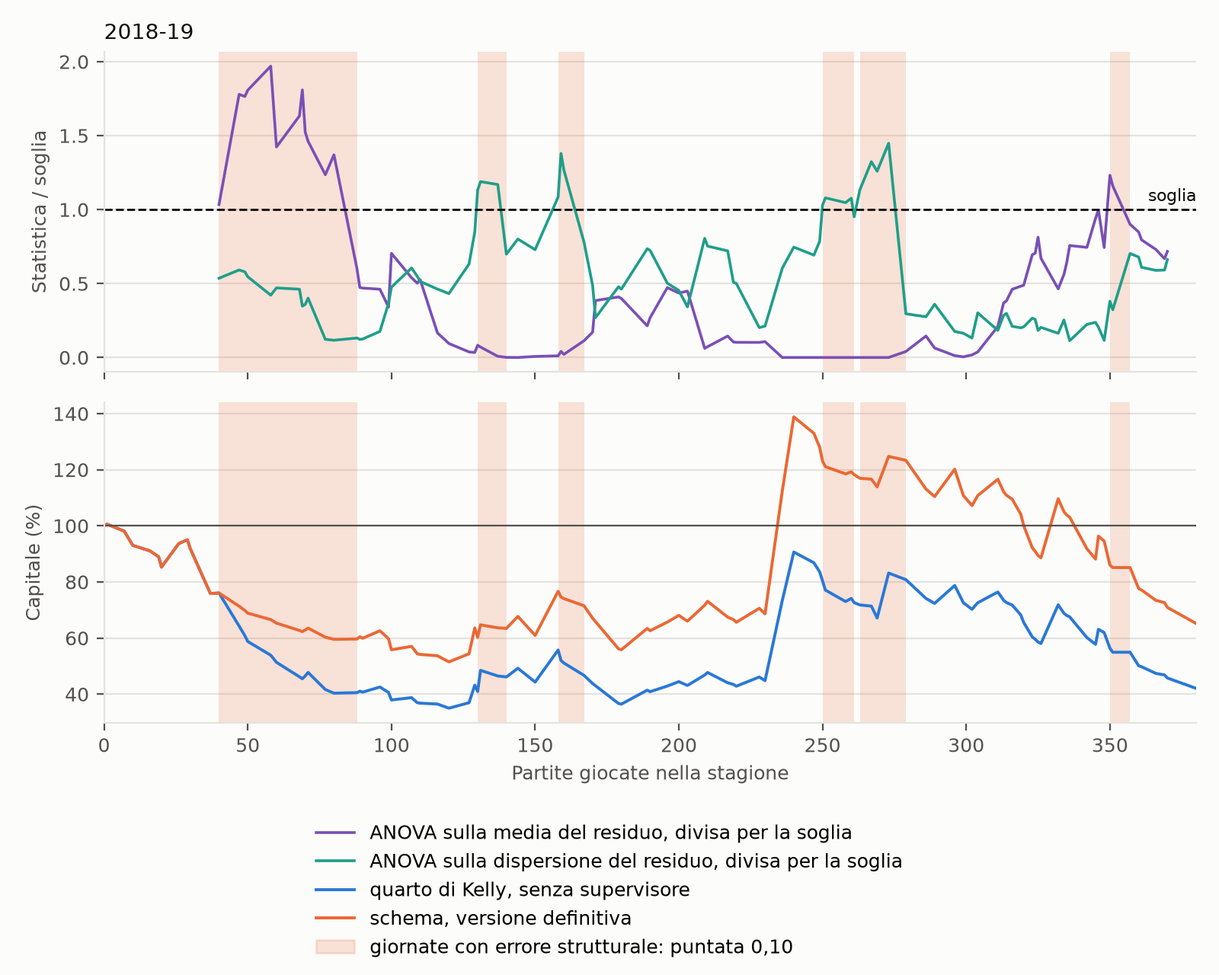
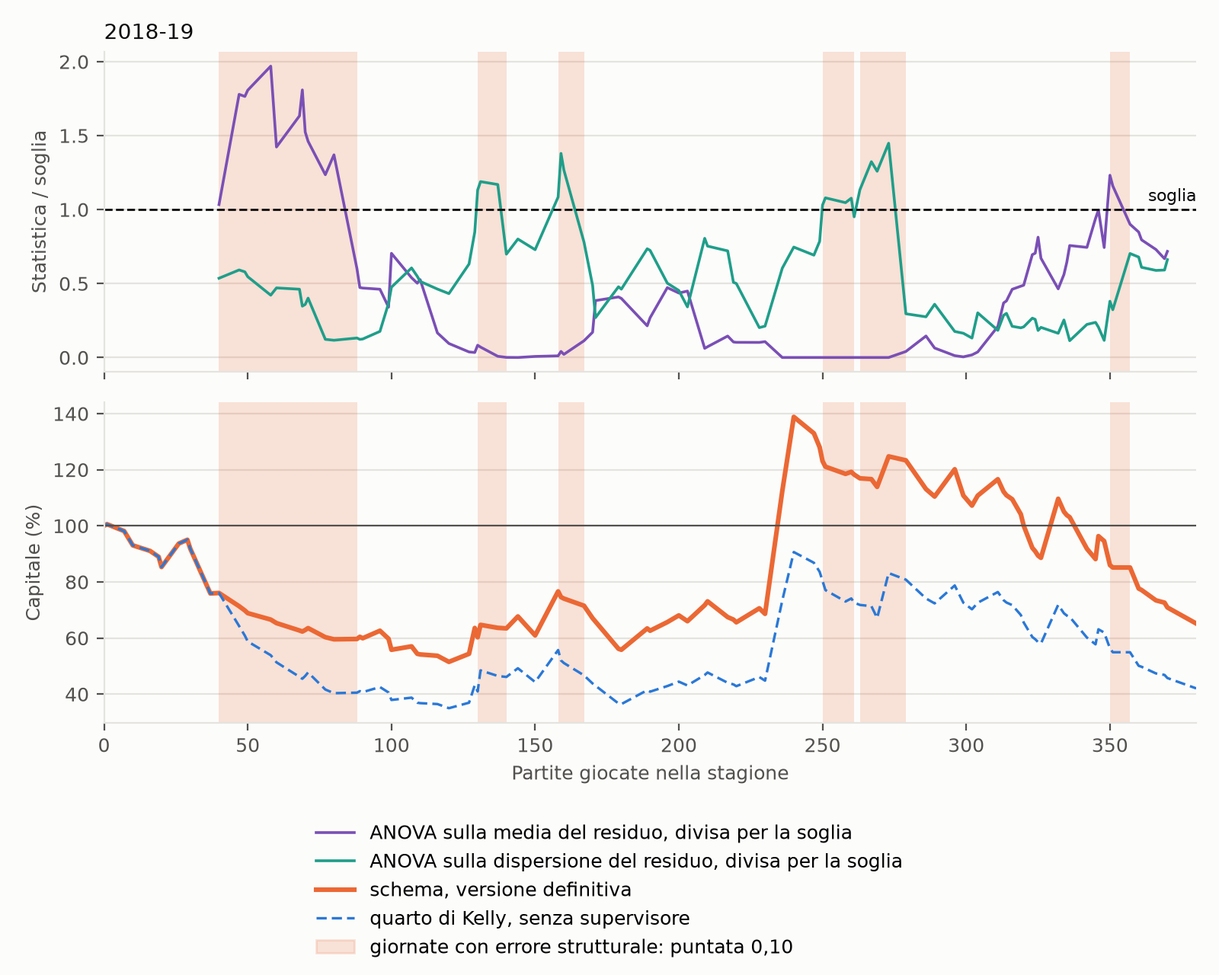
Thesis: clearer sections 5.6 and 5.7, the 2023-24 season traced day by day and why the alarm never fires

diff --git a/scripts/tesi_allarmi_figures.py b/scripts/tesi_allarmi_figures.py
@@ -3,6 +3,8 @@
 - thesis/figures/tesi_allarmi_stagioni.png: le 19 stagioni vere giornata per giornata, con la
   puntata della versione definitiva (quarto di Kelly senza allarme, 0.25·κ dopo un errore nei dati,
   0.10 dopo un errore strutturale, finché dura l'allarme) e il capitale finale dei due agenti;
+- thesis/figures/tesi_allarmi_2023_24.png: lo stesso per la stagione 2023-24 di KellyBench, da
+  results/us_c39_test_season_trace.csv;
 - thesis/figures/tesi_allarmi_2018_19.png: la stagione 2018-19, con le statistiche dell'ANOVA sulla media e sulla dispersione divise per la loro soglia e il capitale della
   versione principale e del quarto di Kelly.
 
@@ -25,6 +27,7 @@ RESULTS = REPO_ROOT / "results"
 SEASONS_PNG = FIG_DIR / "tesi_allarmi_stagioni.png"
 DETAIL_PNG = FIG_DIR / "tesi_allarmi_2018_19.png"
 DETAIL_SEASONS = ("2018-19",)
+TEST_PNG = FIG_DIR / "tesi_allarmi_2023_24.png"
 
 SURFACE = "#fcfcfb"
 INK = "#0b0b0b"
@@ -102,11 +105,13 @@ def plot_seasons() -> None:
     plt.close(fig)
 
 
-def plot_detail() -> None:
-    trace = pd.read_csv(RESULTS / "us_c33_main_alarm_trace.csv")
-    fig, axes = plt.subplots(2, len(DETAIL_SEASONS), figsize=(3 + 5 * len(DETAIL_SEASONS), 6.4),
+def plot_detail(trace_csv: str = "us_c33_main_alarm_trace.csv", seasons: tuple[str, ...] = DETAIL_SEASONS,
+                png: Path = DETAIL_PNG) -> None:
+    trace = pd.read_csv(RESULTS / trace_csv)
+    DETAIL = seasons
+    fig, axes = plt.subplots(2, len(DETAIL), figsize=(3 + 5 * len(DETAIL), 6.4),
                              facecolor=SURFACE, sharex=True, squeeze=False, gridspec_kw={"height_ratios": [1, 1]})
-    for col, season in enumerate(DETAIL_SEASONS):
+    for col, season in enumerate(DETAIL):
         d = trace[(trace["season"] == season) & trace["f_mean"].notna()]
         full = trace[trace["season"] == season]
         x = d["matches_before"]
@@ -127,10 +132,10 @@ def plot_detail() -> None:
                     ax.axvspan(s0, s1, color=STOPPED, alpha=0.18, linewidth=0)
         top.set_title(season, color=INK, fontsize=10, loc="left")
         after = np.append(0, (full["matches_before"] + full["n_matches"]).to_numpy())
-        bottom.plot(after, np.append(100, 100 * full["wealth_quarter"]), color=SERIES_KELLY, linewidth=1.4,
-                    label="quarto di Kelly, senza supervisore")
-        bottom.plot(after, np.append(100, 100 * full["wealth_main"]), color=SERIES_SCHEME, linewidth=1.4,
+        bottom.plot(after, np.append(100, 100 * full["wealth_main"]), color=SERIES_SCHEME, linewidth=2.2,
                     label="schema, versione definitiva")
+        bottom.plot(after, np.append(100, 100 * full["wealth_quarter"]), color=SERIES_KELLY, linewidth=1.2,
+                    linestyle=(0, (4, 2)), label="quarto di Kelly, senza supervisore")
         bottom.axhline(100, color=INK_2, linewidth=0.8)
         bottom.set_xlim(0, 380)
         bottom.set_xlabel("Partite giocate nella stagione", color=INK_2, fontsize=9)
@@ -143,10 +148,12 @@ def plot_detail() -> None:
     fig.legend(h1 + h2 + [span], l1 + l2 + [span.get_label()], loc="lower center", ncol=1, frameon=False,
                fontsize=9)
     fig.tight_layout(rect=(0, 0.17, 1, 1))
-    fig.savefig(DETAIL_PNG, dpi=200, facecolor=SURFACE)
+    fig.savefig(png, dpi=200, facecolor=SURFACE)
     plt.close(fig)
 
 
 if __name__ == "__main__":
     plot_seasons()
     plot_detail()
+    if (RESULTS / "us_c39_test_season_trace.csv").exists():
+        plot_detail("us_c39_test_season_trace.csv", ("2023-24",), TEST_PNG)

diff --git a/scripts/us_c39_test_season_trace.py b/scripts/us_c39_test_season_trace.py
@@ -1,0 +1,57 @@
+"""Script: la versione definitiva giornata per giornata sulla stagione 2023-24 di KellyBench (esplorativo).
+
+Come us_c33, ma sulla stagione di test, con i parametri congelati e il fit 2020-21: a ogni giornata le
+due statistiche dell'allarme e le soglie per stagione, le parti non spiegate e le loro soglie, la
+diagnosi, λ, il capitale della versione definitiva e del quarto di Kelly (puntata minima £0,01 sul
+capitale di £220), la media e lo scarto tipico dei residui nelle ultime 40 partite e nella stagione
+di calibrazione. È la stessa esecuzione deterministica di us_c30 sulla stagione vera, ripetuta per
+registrarne il percorso; non si sceglie nulla sui dati del 2023-24.
+
+Scrive results/us_c39_test_season_trace.csv (una riga per giornata, colonne di us_c33).
+"""
+
+import csv
+import importlib.util
+from pathlib import Path
+
+from shk.model.frozen_agents import check_frozen_constants
+from shk.model.frozen_params import load_frozen_params
+from shk.model.main_version import main_setups
+from shk.model.module2_data import build_module2_frame
+from shk.model.test_run import TEST_FIT, TEST_SEASON, load_season_data, season_params_path
+from shk.model.validation_run import ValidationSeason
+
+REPO_ROOT = Path(__file__).resolve().parents[1]
+TRACE_CSV = REPO_ROOT / "results" / "us_c39_test_season_trace.csv"
+
+_spec = importlib.util.spec_from_file_location("us_c33", REPO_ROOT / "scripts" / "us_c33_main_alarm_trace.py")
+us_c33 = importlib.util.module_from_spec(_spec)
+_spec.loader.exec_module(us_c33)
+
+
+def run_experiment() -> None:
+    sd = load_season_data(TEST_SEASON, TEST_FIT)
+    params_path = str(season_params_path(sd))
+    params = load_frozen_params(params_path)
+    check_frozen_constants(params)
+    frame = build_module2_frame(sd.residuals, devig_method=sd.devig_method)
+    setups = main_setups(frame[frame["role"] == "training"], params)
+    rows = us_c33.trace_season(params_path, setups, ValidationSeason(sd.inp, sd.fit))
+    with open(TRACE_CSV, mode="w", newline="", encoding="utf-8") as f:
+        writer = csv.DictWriter(f, fieldnames=list(us_c33.TRACE_COLUMNS))
+        writer.writeheader()
+        writer.writerows(rows)
+    s = us_c33.season_rows(rows)[0]
+    valid = [r for r in rows if r["f_mean"] == r["f_mean"]]
+    print(f"{TEST_SEASON}: allarmi {s['n_alarm_days']}, capitale schema {100 * s['capital_main']:.1f}% "
+          f"quarto {100 * s['capital_quarter']:.1f}%")
+    print("max media/soglia %.3f  max dispersione/soglia %.3f" % (
+        max(r["f_mean"] / r["f_mean_threshold"] for r in valid),
+        max(r["f_dispersion"] / r["f_dispersion_threshold"] for r in valid)))
+    last = valid[-1]
+    print("riferimento: media %.4f scarto %.4f | ultime 40 a fine stagione: media %.4f scarto %.4f" % (
+        last["mean_reference"], last["spread_reference"], last["mean_window"], last["spread_window"]))
+
+
+if __name__ == "__main__":
+    run_experiment()

diff --git a/tests/test_final_version.py b/tests/test_final_version.py
@@ -83,3 +83,12 @@ def test_us_c30_final_version_never_alarms_in_the_true_season():
         pytest.skip("us_c30 non ancora rieseguito con la versione definitiva")
     assert m.loc[("gbp_0.01", "F"), "observed_log_wealth"] == pytest.approx(
         m.loc[("gbp_0.01", "B_0.25"), "observed_log_wealth"])
+
+
+@_needs("us_c39_test_season_trace.csv")
+def test_us_c39_test_season_matches_us_c30():
+    t = pd.read_csv(RESULTS / "us_c39_test_season_trace.csv")
+    m = pd.read_csv(RESULTS / "us_c30_main_kellybench_summary.csv").set_index(["config", "agent"])
+    # Nessun allarme nella stagione vera, e lo stesso capitale finale dell'esecuzione di us_c30
+    assert (t["diagnosis"] == "none").all()
+    assert np.log(t["wealth_main"].iloc[-1]) == pytest.approx(m.loc[("gbp_0.01", "F"), "observed_log_wealth"])

diff --git a/scripts/reproduce_all.py b/scripts/reproduce_all.py
@@ -138,6 +138,7 @@ STEPS: tuple[Step, ...] = (
     Step("elo", "kellybench_2023_24", outputs=(_r("kellybench_2023_24"),), test_set=True),
     Step("elo", "us_c14_test_scheme_seeds", outputs=(_r("us_c14_test_scheme_seeds_summary"),), test_set=True),
     Step("elo", "us_c30_main_kellybench", outputs=(_r("us_c30_main_kellybench_summary"),), test_set=True),
+    Step("elo", "us_c39_test_season_trace", outputs=(_r("us_c39_test_season_trace"),), test_set=True),
     Step("dixon_coles", "us_c9_1_dixon_coles", outputs=(_r("us_c9_1_dixon_coles"),)),
     Step("dixon_coles", "us_c7_2_covariates", DC, outputs=(_r("us_c7_2_covariates_dc"),)),
     Step("dixon_coles", "us_c7_3_module2", DC, outputs=(_r("us_c7_3_module2_dc"), _r("us_c7_3_module2_ci_dc"))),

diff --git a/thesis/TESI.md b/thesis/TESI.md
@@ -700,67 +700,39 @@ Che la distanza dal mercato sia l'invecchiamento del modello è vero solo in par
 
 ### 5.6 Il capitale
 
-La tabella riporta, sulle 19 stagioni vere e con la puntata minima di £0,01, il capitale rimasto in una stagione tipica (la media geometrica) e il confronto con il quarto di Kelly stagione per stagione; nelle sette stagioni senza allarme i due capitali coincidono.
+Sulle 19 stagioni vere lo schema conserva in una stagione tipica il 57,6% del capitale, il quarto di Kelly il 57,3%. Lo schema fa meglio in quattro stagioni e peggio in otto, e la differenza non è distinguibile dal caso (test di Wilcoxon, $p = 0{,}38$). Il risultato era prevedibile: lo schema punta come il quarto di Kelly nel 92% delle giornate, e nelle altre punta meno.
 
-| Agente | Capitale rimasto | Giornate con la puntata ridotta | Stagioni meglio / peggio del quarto di Kelly |
-|---|---|---|---|
-| Kelly pieno, senza supervisore | 0,2% | – | 0 / 19 |
-| Quarto di Kelly, senza supervisore | 57,3% | – | – |
-| **Schema, versione definitiva** | **57,6%** | 8% | 4 / 8 |
+La domanda utile, allora, è un'altra: le giornate in cui lo schema riduce la puntata sono quelle giuste? Per rispondere si confronta lo schema con agenti che riducono la puntata nello stesso numero di giornate, ma scelte senza guardare l'allarme (§4.6): giornate spostate a caso dentro la stagione, il calendario degli allarmi di un'altra stagione, oppure una puntata fissa appena più bassa del quarto di Kelly. Tutti conservano almeno quanto lo schema, fra il 58,7% e il 59,7%. Sulle stagioni vere, quindi, ridurre la puntata nei giorni dell'allarme non vale più che ridurla in giorni scelti a caso. Le versioni che riducono la puntata fino a fine stagione conservano di più (63–64%, Appendice F), ma solo perché puntano meno in quasi metà delle giornate.
 
-Lo schema conserva in una stagione tipica il 57,6% del capitale, contro il 57,3% del quarto di Kelly. Fa meglio in quattro stagioni (2006-07, 2008-09, 2017-18, 2018-19) e peggio in otto. La differenza non è distinguibile dal caso: il test dei segni dà $p = 0{,}39$, il test di Wilcoxon $p = 0{,}38$, e il rapporto fra i capitali tipici è 1,004, con intervallo al 95% da 0,94 a 1,08. Nella maggior parte delle stagioni nessuno dei due chiude sopra il capitale iniziale.
-
-**I controlli a pari esposizione.** Con un vantaggio negativo puntare meno aiuta comunque. Per sapere se lo schema riduce la puntata nelle giornate giuste, il suo capitale va confrontato con quello di riduzioni della stessa entità che non usano l'allarme (§4.6). La tabella riporta il confronto senza puntata minima.
-
-| Capitale rimasto in una stagione tipica | |
-|---|---|
-| Schema, versione definitiva | 57,5% |
-| Quarto di Kelly, senza supervisore | 57,3% |
-| Giornate con la puntata ridotta riassegnate a caso nella stessa stagione (mediana) | 58,7% |
-| Calendario spostato a caso nella stessa stagione (mediana) | 58,7% |
-| Calendario di un'altra stagione (mediana; 90% dei casi fra) | 59,3% (56,8–61,8%) |
-| Quota di calendari di un'altra stagione che conservano almeno quanto lo schema | 88% |
-| Frazione fissa di pari esposizione (0,24 volte la frazione di Kelly) | 59,7% |
-
-Lo schema non conserva più capitale di un calendario di pari esposizione che non usa l'allarme, e una frazione fissa appena più bassa del quarto di Kelly conserva di più. Sulle stagioni vere, quindi, il capitale non mostra alcun beneficio del supervisore. È coerente con il §5.5: lo schema riconosce le stagioni in cui il modello è lontano dal mercato, ma dentro la stagione il giorno in cui interviene non porta informazione, e una riduzione in giornate scelte a caso fa lo stesso effetto. Con un vantaggio negativo in ogni giornata, il capitale misura soprattutto quanto si punta. L'Appendice F riporta le versioni che riducono la puntata più a lungo, fino a fine stagione o azzerandola: conservano di più (63–64%) solo perché puntano meno nel 42% delle giornate.
+È coerente con il §5.5. L'allarme riconosce le stagioni in cui il modello è lontano dal mercato, ma dentro quelle stagioni il modello lo è quasi ogni giorno, e il giorno esatto in cui si riduce la puntata non conta. Con un vantaggio negativo in ogni giornata, il capitale misura soprattutto quanto si punta, non quando. Per sapere se lo schema protegge qualcosa serve un caso in cui c'è qualcosa da proteggere: è il mondo simulato del paragrafo seguente.
 
 ### 5.7 Lo schema quando un vantaggio c'è
 
-Sulle stagioni vere non c'è mai un vantaggio da proteggere. Nel mondo simulato del §4.7 sì, e lì si può chiedere allo schema ciò per cui è stato pensato: conservare il guadagno quando la struttura cambia, senza rinunciarvi quando non cambia. La tabella riporta il capitale a fine stagione in una stagione tipica, come multiplo di quello iniziale, su 475 stagioni simulate per scenario.
+Nel mondo simulato del §4.7 le partite, le quote e le previsioni sono quelle vere, ma i risultati sono simulati in modo che il modello abbia, all'inizio della stagione, un vantaggio sul mercato. A metà stagione il mondo può cambiare in cinque modi, uno per scenario, e per ogni scenario si simulano 475 stagioni. Lì si può chiedere allo schema ciò per cui è stato pensato: conservare il guadagno quando il vantaggio si perde, senza rinunciarvi quando non si perde.
 
-| Scenario | Kelly pieno | Quarto di Kelly | Schema, versione definitiva | Frazione fissa di pari esposizione |
+La tabella confronta tre agenti con le stesse previsioni. Il **quarto di Kelly** punta sempre la stessa frazione. Lo **schema** è la versione definitiva. La **puntata fissa di pari esposizione** punta per tutta la stagione la frazione media puntata dallo schema, senza guardare l'allarme: se lo schema fa meglio di lei, è perché riduce la puntata nei momenti giusti, e non soltanto perché punta un po' meno. Ogni numero è il capitale a fine stagione in una stagione tipica, come multiplo di quello iniziale: 6,79 vuol dire che il capitale è quasi settuplicato, 0,81 che ne resta l'81%. L'ultima colonna dice quanto spesso, e con che ritardo dopo il cambiamento, lo schema dà una diagnosi di errore strutturale.
+
+| Scenario: che cosa succede a metà stagione | Quarto di Kelly | Schema | Puntata fissa di pari esposizione | Diagnosi strutturale |
 |---|---|---|---|---|
-| Il modello ha ragione tutta la stagione | 47,9 | 6,79 | 6,77 | 6,77 |
-| Il vantaggio svanisce | 0,48 | 2,01 | 2,03 | 2,00 |
-| Il vantaggio si rovescia | 0,01 | 0,81 | 0,95 | 0,83 |
-| Nessun vantaggio | 0,003 | 0,53 | 0,53 | 0,53 |
-| Cambia solo il tipo di partite | 53,9 | 7,04 | 6,41 | 6,70 |
+| Nulla: il modello ha ragione tutta la stagione | 6,79 | 6,77 | 6,77 | nel 9% delle stagioni, per falso allarme |
+| Il vantaggio svanisce: da metà stagione ha ragione il mercato | 2,01 | 2,03 | 2,00 | nel 33% delle stagioni, dopo 24 giornate |
+| Il vantaggio si rovescia: da metà stagione il modello sbaglia | 0,81 | 0,95 | 0,83 | nel 77% delle stagioni, dopo 14 giornate |
+| Nessun vantaggio in tutta la stagione, come nei dati veri | 0,53 | 0,53 | 0,53 | nel 7% delle stagioni, per falso allarme |
+| Cambia solo il tipo di partite: il modello resta giusto | 7,04 | 6,41 | 6,70 | nel 48% delle stagioni, a torto |
 
-La tabella seguente riporta quanto spesso arriva una diagnosi strutturale e con che ritardo.
+**Quando nulla cambia, lo schema costa quasi nulla.** Un falso allarme strutturale arriva in meno di una stagione su dieci e dura poco: il capitale è 6,77 contro 6,79. È il compito delle soglie per stagione.
 
-| Scenario | Stagioni con almeno una diagnosi strutturale | Ritardo tipico dopo il cambiamento | Giornate con la puntata ridotta, dopo il cambiamento |
-|---|---|---|---|
-| Il modello ha ragione tutta la stagione | 9% | – | 0,3% |
-| Il vantaggio svanisce | 33% | 24 giornate | 3% |
-| Il vantaggio si rovescia | 77% | 14 giornate | 19% |
-| Nessun vantaggio | 7% | – | 0,2% |
-| Cambia solo il tipo di partite | 48% | 21 giornate | 16% |
+**Quando il vantaggio si rovescia, lo schema lo protegge in parte.** Lo schema se ne accorge in tre stagioni su quattro, con un ritardo tipico di 14 giornate, e chiude a 0,95 invece di 0,81: fa meglio del quarto di Kelly in 64 stagioni su 100 e peggio in 13. Fa meglio anche della puntata fissa di pari esposizione (0,83): qui, a differenza delle stagioni vere, ridurre la puntata nei giorni dell'allarme conta. La protezione è parziale, perché dopo il rovescio l'allarme si spegne e si riaccende, e quando è spento lo schema torna al quarto di Kelly su un modello che ora sbaglia. Una riduzione mantenuta fino a fine stagione arriverebbe a 1,18 (Appendice F).
 
-**Quando il vantaggio si rovescia, lo schema lo protegge in parte.** La diagnosi strutturale arriva in tre stagioni su quattro, con un ritardo tipico di 14 giornate, e il capitale chiude a 0,95 volte quello iniziale contro 0,81 del quarto di Kelly: lo schema fa meglio in 64 stagioni su 100 e peggio in 13. Qui il momento dell'intervento conta, perché la frazione fissa di pari esposizione si ferma a 0,83. La protezione è parziale: dopo il rovescio l'allarme si spegne e si riaccende, e quando è spento lo schema torna al quarto di Kelly su un modello che ora ha un vantaggio negativo. Una riduzione che durasse fino a fine stagione arriverebbe a 1,18 (Appendice F).
+**Quando il vantaggio svanisce, lo schema pareggia** (2,03 contro 2,01): un cambiamento piccolo è riconosciuto solo in una stagione su tre.
 
-**Quando nulla cambia, lo schema costa quasi nulla.** Senza cambiamenti l'allarme dà una diagnosi strutturale nel 9% delle stagioni, e la puntata resta ridotta in meno di una giornata su cento: il capitale è 6,77 contro 6,79 del quarto di Kelly. È il compito delle soglie per stagione.
+**Senza vantaggio, come nei dati veri, lo schema coincide con il quarto di Kelly** (0,53), e il Kelly pieno, che nel mondo in cui il modello ha ragione moltiplica il capitale per 48, in questo scenario lo azzera. È il punto di partenza dello schema: il criterio di Kelly applicato in modo rigido presuppone probabilità vere.
 
-**Quando il vantaggio svanisce, lo schema pareggia** (2,03 contro 2,01): un cambiamento piccolo è riconosciuto in una stagione su tre.
-
-**Il Kelly pieno è il migliore finché il modello ha ragione, e si azzera quando smette di averla.** È il punto di partenza dello schema: il criterio di Kelly applicato in modo rigido presuppone probabilità vere, e senza un controllo sulla loro affidabilità porta alla rovina.
-
-**Senza vantaggio, come nei dati veri, lo schema coincide con il quarto di Kelly** (0,53).
-
-**La diagnosi.** Nello scenario in cui cambia solo il tipo di partite l'allarme scatta, perché nella seconda metà gli errori sono davvero più dispersi, ma l'errore è nei dati: la risposta giusta è ridurre un poco la puntata, non molto. È l'unico scenario in cui la distinzione fra le due diagnosi è messa alla prova. Fra le giornate con allarme dopo il cambiamento, la diagnosi a due termini risponde «strutturale» nel 18% dei casi quando è cambiato solo il tipo di partite, e nell'85–92% quando è cambiata la struttura; la misura è fatta con le soglie per giornata, che producono più allarmi da classificare. La diagnosi distingue, ma non è perfetta: con il solo cambio di composizione sbaglia ancora un allarme su cinque, e lo schema perde un po' di capitale anche in questo scenario (6,41 contro 7,04). Poiché la riduzione dura solo finché dura l'allarme, l'errore costa poco: una versione che dopo il primo errore strutturale restasse ferma fino a fine stagione chiuderebbe a 4,65 (Appendice F). La diagnosi, inoltre, non riconosce i falsi allarmi: un falso allarme non è spiegato dal tipo di partite, e viene chiamato strutturale. Quel controllo spetta alle soglie dell'allarme.
+**Quando cambia solo il tipo di partite, la diagnosi sbaglia una volta su cinque.** Nella seconda metà della stagione capitano le partite su cui il modello sbaglia di più, quindi l'allarme scatta, ma il modello è giusto come prima: la risposta corretta è ridurre la puntata di poco. Fra le giornate con allarme, la diagnosi a due termini risponde «strutturale» nel 18% dei casi in questo scenario, e nell'85–92% quando a cambiare è davvero il modello. Quando sbaglia, lo schema riduce la puntata più del necessario, e chiude a 6,41 contro 7,04. Poiché la riduzione dura solo finché dura l'allarme, l'errore costa poco: una versione che dopo il primo errore strutturale restasse ferma fino a fine stagione chiuderebbe a 4,65 (Appendice F).
 
 ### 5.8 La stagione di KellyBench
 
-La stagione 2023-24 è stata giocata come in KellyBench, partendo da £100 000, la scala in cui il paper riporta i risultati, con il modello calibrato fino al 2020-21. Anche su questa stagione il modello non batte il mercato: lo scarto è −0,043 con le quote Bet365 e −0,051 con quelle di chiusura di Pinnacle. Lo schema è stato costruito dopo che la stagione di test era stata usata: i risultati della versione definitiva sul 2023-24 vengono da un'unica esecuzione, fatta alla fine del lavoro senza cambiare alcun parametro, e sono esplorativi. La tabella riporta il capitale finale nella stagione vera e in 500 stagioni ricostruite.
+La stagione 2023-24 è stata giocata come in KellyBench, partendo da £100 000, la scala in cui il paper riporta i risultati, con il modello calibrato fino al 2020-21. Lo schema è stato costruito dopo che la stagione di test era stata usata: i risultati della versione definitiva sul 2023-24 vengono da un'unica esecuzione, fatta alla fine del lavoro senza cambiare alcun parametro, e sono esplorativi. La tabella riporta il capitale finale nella stagione vera e in 500 stagioni ricostruite.
 
 | Agente | Stagione vera | Mediana di 500 stagioni ricostruite | 90% delle stagioni ricostruite fra | Stagioni ricostruite in cui fa meglio del quarto di Kelly |
 |---|---|---|---|---|
@@ -768,7 +740,21 @@ La stagione 2023-24 è stata giocata come in KellyBench, partendo da £100 000, 
 | Quarto di Kelly, senza supervisore | £24 348 | £24 544 | £8 546 e £71 157 | – |
 | **Schema, versione definitiva** | **£24 348** | **£24 642** | **£8 546 e £73 903** | **16%** |
 
-Nella stagione vera l'allarme non scatta mai, e lo schema chiude con lo stesso capitale del quarto di Kelly: entrambi perdono circa tre quarti del capitale. È coerente con il §5.4: il modello usato nel 2023-24 è ancora giovane, e la dispersione dei suoi errori è la stessa della stagione di calibrazione (0,181 contro 0,186), come nelle altre due stagioni previste con lo stesso modello. Il Kelly pieno, invece, perde quasi tutto, come molti agenti di KellyBench. Sulle stagioni ricostruite lo schema fa meglio del quarto di Kelly nel 16% dei casi e coincide con esso quasi sempre negli altri: una stagione ricostruita ripete alcune giornate e ne salta altre, e a volte crea un periodo di errori anomali che fa scattare l'allarme.
+Nella stagione vera l'allarme non scatta mai, e lo schema chiude con lo stesso capitale del quarto di Kelly: entrambi perdono circa tre quarti del capitale. Il Kelly pieno, invece, perde quasi tutto, come molti agenti di KellyBench. La Figura 5.4 mostra la stagione nello stesso formato della Figura 5.1.
+
+![Le statistiche dell'allarme e il capitale nella stagione 2023-24](figures/tesi_allarmi_2023_24.png)
+
+*Figura 5.4. La stagione 2023-24 di KellyBench. In alto le statistiche dell'ANOVA sulla media e dell'ANOVA sulla dispersione del residuo, divise per la loro soglia per stagione: nessuna delle due si avvicina a 1. In basso il capitale della versione definitiva e del quarto di Kelly senza supervisore, che coincidono per tutta la stagione.*
+
+**Perché l'allarme non scatta.** Il modello non è vicino al mercato: nel 2023-24 lo scarto medio è −0,043 per partita, il doppio della media delle 19 stagioni di valutazione, e la media dei residui nelle ultime 40 partite scende fino a −0,10, quanto nel 2018-19, quando l'allarme scattò alla prima giornata possibile. Eppure la statistica della media arriva al massimo al 44% della soglia, e quella della dispersione al 20%. Le ragioni probabili sono tre.
+
+- **Il riferimento sbagliava già.** L'allarme non misura la distanza dal mercato, ma il peggioramento rispetto alla stagione di calibrazione. Per questo modello la stagione di calibrazione è il 2020-21, giocato quasi tutto a porte chiuse: già allora il modello dava al risultato meno probabilità del mercato (residuo medio −0,021, contro +0,004 del 2010-11), e i suoi errori erano molto dispersi (scarto tipico 0,186, contro 0,135 del 2010-11 e 0,109 del 2000-01). Rispetto a un riferimento che sbagliava già molto, il 2023-24 non sembra peggiore: lo scarto tipico delle ultime 40 partite arriva al massimo a 1,24 volte quello del riferimento, mentre gli allarmi sulla dispersione delle altre stagioni sono scattati intorno a una volta e mezza.
+- **Un riferimento più disperso rende l'allarme più cauto.** L'ANOVA confronta la differenza fra i due periodi con la variabilità degli errori: se gli errori del riferimento variano molto, la stessa differenza pesa meno, e serve un peggioramento più forte per superare la soglia.
+- **Il modello sbaglia meno sulle grandi squadre in trasferta.** La calibrazione del 2020-21 ha stimato un vantaggio del campo di 78 punti invece di 125–128, perché giocare in casa a porte chiuse contava meno. Il disaccordo con il mercato sulle favorite in trasferta, che nelle altre stagioni fa scattare gli allarmi sulla dispersione (§5.4), è quindi più piccolo: 56% contro 73%, invece di 50% contro 73%.
+
+Lo stesso accade nelle due stagioni di valutazione previste con questo modello, il 2021-22 e il 2022-23: il modello è lontano dal mercato, ma l'allarme non scatta mai. È il limite del §5.5 visto dall'altro lato: l'allarme vede un modello che peggiora rispetto a quando è stato stimato, e se la stagione di calibrazione era già insolita, come quella giocata a porte chiuse, un modello lontano dal mercato può sembrare normale. Un riferimento fatto di più stagioni renderebbe l'allarme meno dipendente da una stagione sola (§7.5).
+
+Sulle stagioni ricostruite lo schema fa meglio del quarto di Kelly nel 16% dei casi e coincide con esso quasi sempre negli altri: una stagione ricostruita ripete alcune giornate e ne salta altre, e a volte crea un periodo di errori anomali che fa scattare l'allarme.
 
 Il quarto di Kelly e lo schema chiudono la stagione con circa il 25% del capitale, cioè con una perdita del 75%, molto maggiore dell'11% perso dai migliori agenti di KellyBench. Il confronto in sterline non è però diretto: gli agenti del benchmark scelgono anche quanto puntare e su quante partite, con regole diverse fra loro, e dispongono di più dati. Il punto non è l'entità della perdita, ma la sua causa: con un modello che non batte il mercato, il capitale perso dipende soprattutto da quanto si punta.
 
